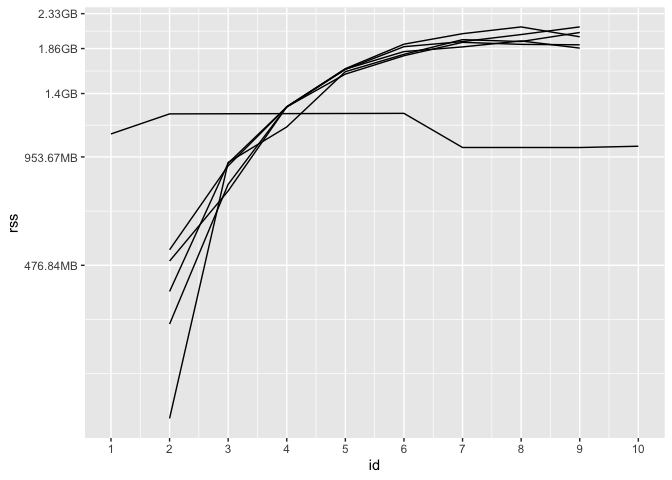
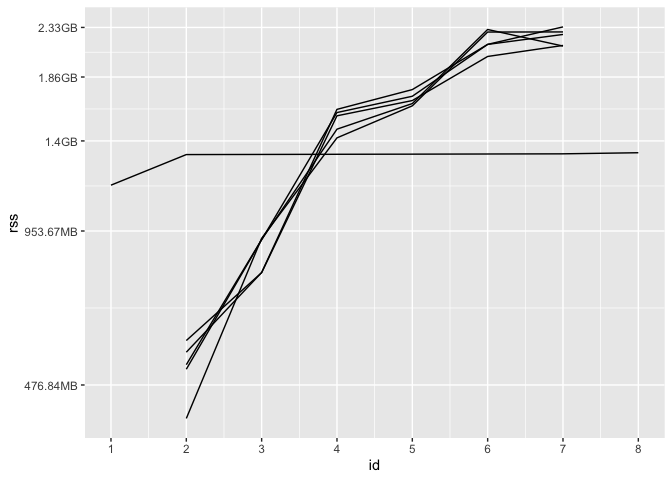
start with a simpler example in README

diff --git a/README.md b/README.md
@@ -28,22 +28,60 @@ pak::pak("simonpcouch/syrup")
 
 ## Example
 
-We’ll demo using the package with an (admittedly dependency-heavy)
-example of tuning a regularized linear model against resamples. First,
-loading needed packages:
-
 ``` r
 library(syrup)
+#> Loading required package: bench
+```
+
+The main function in the syrup package is the function by the same name.
+The main argument to `syrup()` is an expression, and the function
+outputs a tibble. Supplying a rather boring expression:
+
+``` r
+syrup(Sys.sleep(1))
+#> # A data frame: 6 × 6
+#>      id   pid  ppid name                 rss       vms
+#>   <dbl> <int> <int> <chr>          <bch:byt> <bch:byt>
+#> 1     1 66822 58354 rsession-arm64     313MB     393GB
+#> 2     1 66925 66822 R                  110MB     392GB
+#> 3     2 66822 58354 rsession-arm64     313MB     393GB
+#> 4     2 66925 66822 R                  110MB     392GB
+#> 5     3 66822 58354 rsession-arm64     313MB     393GB
+#> 6     3 66925 66822 R                  110MB     392GB
+```
+
+In this tibble, `id` defines a specific time point at which process
+usage was snapshotted, and the remaining columns show output from
+[ps::ps()](https://ps.r-lib.org/reference/ps.html). Notably, `pid` is
+the process ID, `ppid` is the process ID of the parent process, and
+`rss` is the resident set size (a measure of memory usage).
+
+The function works by:
+
+- Setting up another R process `sesh` that queries memory information at
+  a regular interval,
+- Evaluating the supplied expression,
+- Reading the memory information back into the main process from `sesh`,
+- Closing `sesh`, and then
+- Returning the memory information.
+
+## Application: model tuning
+
+For a more interesting demo, we’ll tune a regularized linear model using
+cross-validation with tidymodels. First, loading needed packages:
+
+``` r
 library(future)
 library(tidymodels)
 library(rlang)
 ```
 
 Using future to define our parallelism strategy, we’ll set
-`plan(multicore)`, indicating that we’d like to use forking with 5
-workers. By default, future disables forking from RStudio; I know that,
-in the context of building this README, this usage of forking is safe,
-so I’ll temporarily override that default with `parallelly.fork.enable`.
+`plan(multicore, workers = 5)`, indicating that we’d like to use forking
+with 5 workers. By default, future disables forking from RStudio; I know
+that, in the context of building this README, this usage of forking is
+safe, so I’ll temporarily override that default with
+`parallelly.fork.enable`.
 
 ``` r
 local_options(parallelly.fork.enable = TRUE)
@@ -79,8 +117,11 @@ dat
 #> #   predictor_20 <dbl>
 ```
 
-The main function in the syrup package, `syrup()`, takes an expression
-as argument:
+The call to `tune_grid()` does some setup sequentially before sending
+data off to the five child processes to actually carry out the model
+fitting. After models are fitted, data is sent back to the parent
+process to be combined. To better understand memory usage throughout
+that process, we wrap the call in `syrup()`:
 
 ``` r
 res_mem <- syrup({
@@ -91,46 +132,34 @@ res_mem <- syrup({
       vfold_cv(dat)
     )
 })
-```
 
-The function works by:
-
-- Setting up another R process `sesh` that queries system information at
-  a regular interval,
-- Evaluating the supplied expression,
-- Reading the queried system information back into the main process from
-  `sesh`,
-- Closing `sesh`, and then
-- Returning the queried system information.
-
-The output is a tibble:
-
-``` r
 res_mem
-#> # A tibble: 60 × 6
+#> # A tibble: 47 × 6
 #>       id   pid  ppid name                 rss       vms
 #>    <dbl> <int> <int> <chr>          <bch:byt> <bch:byt>
-#>  1     1 58494 58354 rsession-arm64  542.34MB     393GB
-#>  2     1 59643 58494 R                 1.08GB     393GB
-#>  3     2 58494 58354 rsession-arm64  542.34MB     393GB
-#>  4     2 59643 58494 R                 1.23GB     393GB
-#>  5     2 59660 59643 R               526.48MB     393GB
-#>  6     2 59661 59643 R               489.86MB     393GB
-#>  7     2 59662 59643 R                403.3MB     393GB
-#>  8     2 59663 59643 R               327.42MB     393GB
-#>  9     2 59664 59643 R               179.06MB     393GB
-#> 10     3 58494 58354 rsession-arm64  542.34MB     393GB
-#> # ℹ 50 more rows
+#>  1     1 66822 58354 rsession-arm64  313.41MB     393GB
+#>  2     1 66925 66822 R                 1.15GB     393GB
+#>  3     2 66822 58354 rsession-arm64  313.41MB     393GB
+#>  4     2 66925 66822 R                 1.31GB     393GB
+#>  5     2 66947 66925 R               582.45MB     393GB
+#>  6     2 66948 66925 R               552.66MB     393GB
+#>  7     2 66949 66925 R               522.47MB     393GB
+#>  8     2 66950 66925 R               511.88MB     393GB
+#>  9     2 66951 66925 R               410.19MB     393GB
+#> 10     3 66822 58354 rsession-arm64  313.41MB     393GB
+#> # ℹ 37 more rows
 ```
 
-In this tibble, `id` defines a specific time point at which process
-usage was snapshotted, and the remaining columns show output from
-[ps::ps()](https://ps.r-lib.org/reference/ps.html). Notably, `pid` is
-the process ID, `ppid` is the process ID of the parent process, and
-`rss` is the resident set size (a measure of memory usage).
+These results are a bit more interesting than the sequential results
+from `Sys.sleep(1)`. Look closely at the `ppid`s for each `id`; after a
+snapshot or two, you’ll see five identical `ppid`s for each `id`, and
+those `ppid`s match up with the remaining `pid` in the one remaining R
+process. This shows us that we’ve indeed distributed computations using
+forking in that that one remaining R process, the “parent,” has spawned
+off five child processes from itself.
 
-We can plot to get a better sense of how memory usage of these processes
-changes over time.
+We can plot the result to get a better sense of how memory usage of
+these processes changes over time.
 
 ``` r
 worker_ppid <- names(sort(-table(res_mem$ppid)))[1]
@@ -153,9 +182,9 @@ their `rss` is once again `NA`. The parent process wraps up its
 computations before completing evaluation of the expression, at which
 point `syrup()` returns.
 
-Note that memory is weird; in the above plot, the total memory allotted
-to the parent session and its five workers at each ID is not simply the
-sum of those `rss` values, as memory is shared among them.
+Keep in mind: memory is weird. In the above plot, the total memory
+allotted to the parent session and its five workers at each ID is not
+simply the sum of those `rss` values, as memory is shared among them.
 
 ## Scope
 
@@ -164,9 +193,9 @@ expression provided to `syrup()` is run in parallel. Said another way,
 syrup will work just fine with “normal,” sequentially-run R code. That
 said, there are many better, more fine-grained tools for the job in the
 case of sequential R code, such as `Rprofmem()`, the
-[profmem](https://CRAN.R-project.org/package=profmem)
-package, the [bench](https://bench.r-lib.org/) package, and packages in
-the [R-prof](https://github.com/r-prof) GitHub organization.
+[profmem](https://CRAN.R-project.org/package=profmem) package, the
+[bench](https://bench.r-lib.org/) package, and packages in the
+[R-prof](https://github.com/r-prof) GitHub organization.
 
 Results from syrup only provide enough detail for the coarsest analyses
 of memory usage, but they do provide an entry to “profiling” memory
